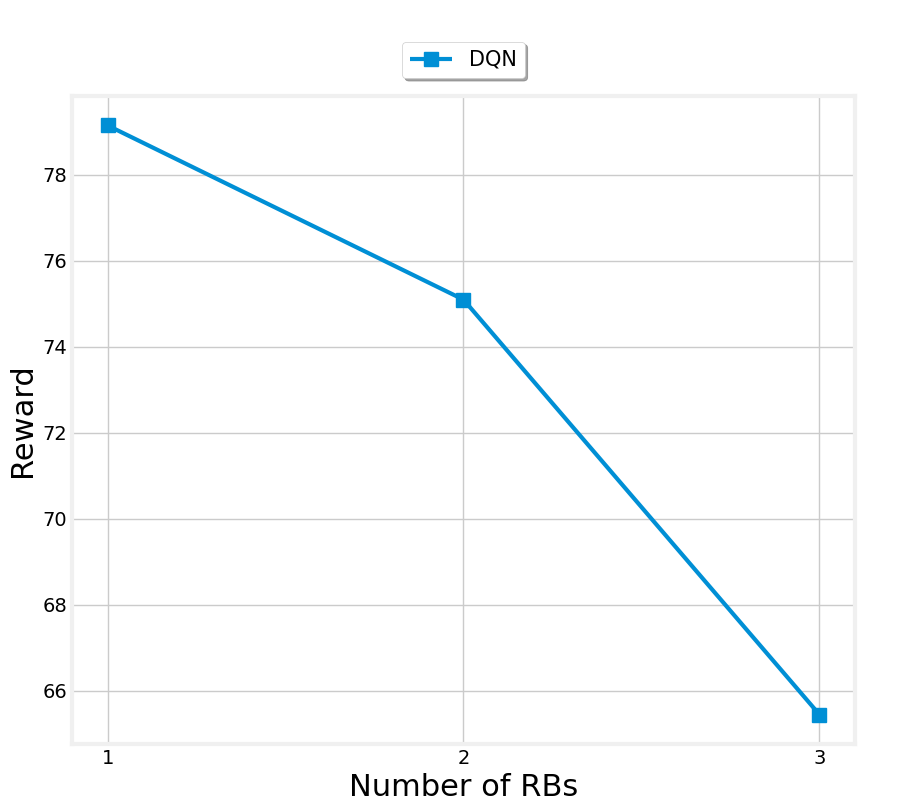
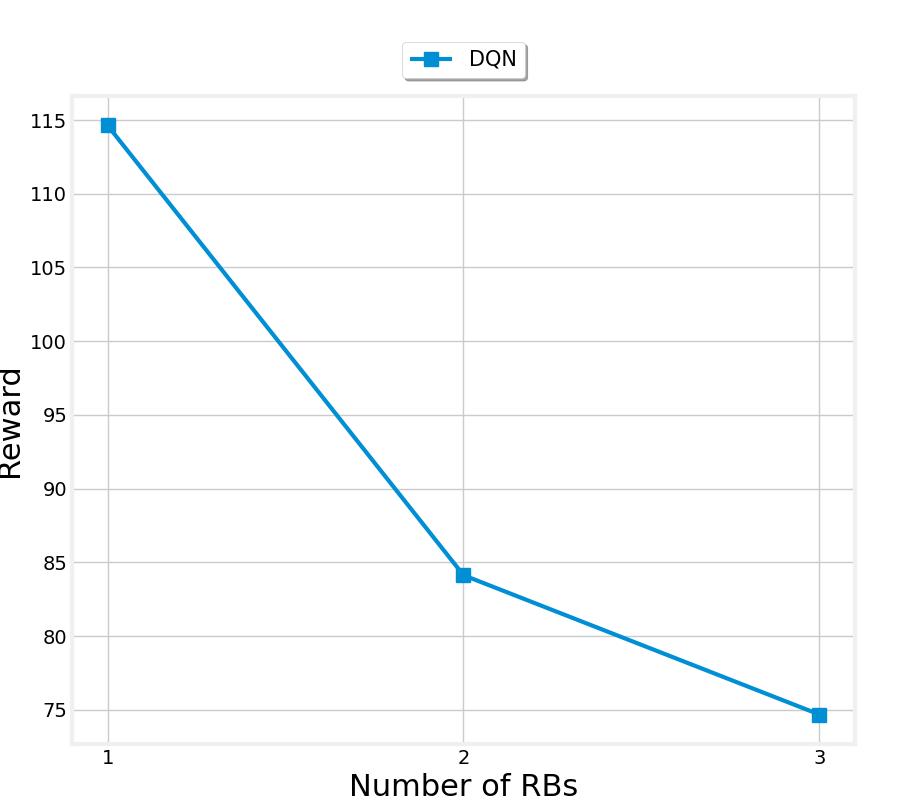
add blackborder calculation

diff --git a/vr_env.py b/vr_env.py
@@ -3,7 +3,67 @@ import math
 import random as rn
 from collections import defaultdict
 
-def step(ind, action, subN, ue, band, all_sub, v_array):
+def robust_overfilling(input_orientation, prediction, input_projection, offset = 1.1, fixed_param = 1.3):
+    #Get Input Projection Distance for each side in x,y coordinate
+    IPDx = input_projection[2]-input_projection[0]
+    IPDy = input_projection[1]-input_projection[3]
+
+    #Define projection distance to the user
+    h = 1000
+
+    #Get the corner point distance to the rotation center for each side in x,y coordinate
+    rx = np.sqrt(h**2+1/4*IPDx**2)
+    ry = np.sqrt(h**2+1/4*IPDy**2)
+
+    #Get initial input angle to the rotational center
+    input_anglex = np.arctan(IPDx/(2*h))
+    input_angley = np.arctan(IPDy/(2*h))
+
+    #Get user's direction based on prediction motion
+    pitch_diff = (prediction[0]-input_orientation[0])
+    roll_diff = (prediction[1]-input_orientation[1])
+    yaw_diff = (prediction[2]-input_orientation[2])
+
+    #Calculate predicted margin based on translation movement
+    x_r = max(input_projection[2],rx*abs(np.sin(input_anglex-yaw_diff)))
+    x_l = min(input_projection[0],-rx*abs(np.sin(input_anglex+yaw_diff)))
+    y_t = max(input_projection[1],ry*abs(np.sin(input_angley+pitch_diff)))
+    y_b = min(input_projection[3],-ry*abs(np.sin(input_angley-pitch_diff)))
+
+    #Calculate predicted margin based on rotational movement
+    x_rr = rx*abs(np.sin(input_anglex+abs(roll_diff)))
+    x_ll = -rx*abs(np.sin(input_anglex+abs(roll_diff)))
+    y_tt = ry*abs(np.sin(input_angley+abs(roll_diff)))
+    y_bb = -ry*abs(np.sin(input_angley+abs(roll_diff)))
+
+    #Calculate final movement
+    p_r = x_r+x_rr-IPDx/2
+    p_l = x_l+x_ll+IPDx/2
+    p_t = y_t+y_tt-IPDy/2
+    p_b = y_b+y_bb+IPDy/2
+
+    'Enhancement'
+    # Calculate margin based on genrated area
+    margin = np.sqrt((p_r-p_l)*(p_t-p_b)*offset)/2
+    p_l = -(margin+np.sin(yaw_diff))+(input_projection[0]+1)
+    p_t = margin+np.sin(pitch_diff)+(input_projection[1]-1)
+    p_r = margin-np.sin(yaw_diff)+(input_projection[2]-1)
+    p_b = -(margin-np.sin(pitch_diff))+(input_projection[3]+1)
+
+    'Enhancement ver 2'
+    # Get dilation on high velocity
+    p_r = max(p_r*(np.sin(abs(yaw_diff))*(fixed_param-1)+1),p_r*(np.sin(abs(pitch_diff))*(fixed_param-1)+1))
+    p_l = min(p_l*(np.sin(abs(yaw_diff))*(fixed_param-1)+1),p_l*(np.sin(abs(pitch_diff))*(fixed_param-1)+1))
+    p_t = max(p_t*(np.sin(abs(pitch_diff))*(fixed_param-1)+1),p_t*(np.sin(abs(yaw_diff))*(fixed_param-1)+1))
+    p_b = min(p_b*(np.sin(abs(pitch_diff))*(fixed_param-1)+1), p_b*(np.sin(abs(yaw_diff))*(fixed_param-1)+1))
+    # return [-np.abs(p_l),np.abs(p_t),np.abs(p_r),-np.abs(p_b)]
+
+    x = (p_l, 0, p_r, 0)
+    y = (0, p_t, 0, p_b)
+    area = 0.5*np.abs(np.dot(x,np.roll(y,1))-np.dot(y,np.roll(x,1)))
+    return area
+
+def step(ind, action, subN, ue, band, all_sub, v_array, prev_a_array, current_a_array):
     loc = ind                   # locator of the indices of the channel gains h
     sub = np.array([action])    # allocated sub-carriers
     sorter = []                 # this sorts out the MD
@@ -23,18 +83,23 @@ def step(ind, action, subN, ue, band, all_sub, v_array):
     rl = fn / cn        # initialize the local data rate
     wi = np.array([1.5 if md % 2 == 1 else 1 for md in range(n)])
 
-    v = v_array                         # velocity of user fixation (rad/s)
-    L = 1600 * 1440 	                # viewport pixels 1600x1440
-    k = 10**2                           # pixels coefficient
-    lmd = 1                             # L/r < d coefficient
-    Pl = 10 * 10**-5                    # local computing power
-    Po = 0.1 * 10**-5	                # offload computing power
-    dly = [0.01, 0.05, 0.1, 0.2, 0.3]   # range [10,50,100,200,300]ms  
+    d = 0.1
+    v = v_array                          # velocity of user fixation (rad/s)
+    L = 1600 * 1440 	                 # viewport pixels 1600x1440
+    # k = 10**2                            # pixels coefficient
+    lmd = 1                              # L/r < d coefficient
+    Pl = 10 * 10**-5                     # local computing power
+    Po = 0.1 * 10**-5	                 # offload computing power
+    k_coef = [100, 200, 300, 500, 3000]      # range [10,50,100,200,300]ms  
 
-    d = [dly[action[i]] for i in range(0,len(action)) if i%2]               # playout delay
+    k = [k_coef[action[i]] for i in range(0,len(action)) if i%2]               # playout delay
     sub = np.array([action[i] for i in range(0,len(action)) if not i%2])    # allocated sub-carriers
 
+    input_projection = [-800, 720, 800, -720]
+
     out_dict = defaultdict(list)
+
+    i = 0
 
     for s, n in zip(sub, sorter):  # outer loop to compute the system wide weighted sum data rate
         if s == 0:
@@ -42,7 +107,13 @@ def step(ind, action, subN, ue, band, all_sub, v_array):
             e = Pl * L
             ovf = 0
             d_bound = 0
+            opt_area = L
+            Li = L
+            bb = 0
         else:
+            prediction = [current_a_array[i], current_a_array[i+1], current_a_array[i+2]]
+            input_orientation = [prev_a_array[i], prev_a_array[i+1], prev_a_array[i+2]]
+            opt_area = robust_overfilling(input_orientation , prediction, input_projection)
             cur_sub = np.array(all_sub[s-1])  # we use s-1 because our sub-carrier array counts from zero
             h = cur_sub[loc, :]
             s_power = h[n] * p  # signal power computed. this is the numerator of the signal_to_noise
@@ -61,13 +132,22 @@ def step(ind, action, subN, ue, band, all_sub, v_array):
             e2 = math.log(1+signal_to_noise)
             ro = b * e2/e1
             r = wi[n]*ro
-            ovf = k * v[n]**2 * d[n]**2
-            d_bound = (L * (1 + ovf) / r) - d[n]
-            e = Po * L * (1 + ovf) + lmd * d_bound
+            ovf = k[n] * v[n]**2 * d**2
+            Li = L * (1 + ovf)
+            d_bound = (Li / r) - d
+
+            e = Po * Li + lmd * d_bound
+            bb = abs(Li - opt_area)
+        i+=1
         out_dict['x'].append(s)         
         out_dict['rate'].append(r)      # transmission rate
         out_dict['energy'].append(e)      # energy consumption
         out_dict['overfill'].append(ovf)
-        out_dict['delay'].append(d[n])
+        out_dict['k_coef'].append(k[n])
         out_dict['delay_bound'].append(d_bound)
+        out_dict['optimal_area'].append(opt_area)
+        out_dict['overfill_area'].append(Li)
+        out_dict['blackborder'].append(bb)
+        out_dict['L'].append(L)
+        out_dict['Li'].append(Li)
     return out_dict

diff --git a/vr_dqn.py b/vr_dqn.py
@@ -5,6 +5,7 @@ import time as tm
 import pandas as pd
 import tensorflow as tf
 import matplotlib.pyplot as plt
+import math
 
 from datetime import datetime
 from matplotlib.ticker import MaxNLocator
@@ -57,6 +58,7 @@ def run(t, s, ue, plot, result_dir):
     n = t  # number of time frames
     b = 1 * 10 ** 6
     SUB_NUM = s
+    PLAYOUT_DELAY = 0.1
 
     NUM_EPISODES = 100
     INITIAL_EPSILON = 0.4
@@ -66,9 +68,13 @@ def run(t, s, ue, plot, result_dir):
     TARGET_UPDATE_CYCLE = 1
     epsilon = INITIAL_EPSILON
 
+    w1 = 1
+    w2 = 10**-5
+    # w2 = 1
+
     RESULT_DIR = datetime.now().strftime("%y%m%d_%H%M")
 
-    playout_d = [0.01, 0.05, 0.1, 0.2, 0.3] 
+    k = [100, 200, 300, 500, 3000]     # overfill constant
 
     # Load data
     channel = sio.loadmat('data/ch_gain/data_%d' % 10)['input_h']
@@ -76,6 +82,9 @@ def run(t, s, ue, plot, result_dir):
 
     v_df = pd.read_csv('data/ang_vec/ang_vec_3users.csv')
     v_df = v_df.clip(-4, 4)
+
+    a_df = pd.read_csv('data/ang/ang_3users.csv')
+    a_df = a_df.clip(-2*math.pi, 2*math.pi)
 
     # print(len(channel))
     adj_channel = []        #adjust
@@ -113,7 +122,7 @@ def run(t, s, ue, plot, result_dir):
     discrete_action = True
 
     if discrete_action:
-        out_size = pow(SUB_NUM+1, nu) * pow(len(playout_d), nu)
+        out_size = pow(SUB_NUM+1, nu) * pow(len(k), nu)
 
     network = DeepQNetwork(net=[(nu,2), 120, 80, out_size], # Input layer (nu), 120 and 80 neurons of hidden layers and output layer (nu)
                     learning_rate=0.01,
@@ -124,7 +133,7 @@ def run(t, s, ue, plot, result_dir):
                     enable_DDQN = False
                     )
 
-    action_space = [SUB_NUM if i%2 else len(playout_d)-1 for i in range(1,2*nu+1)]
+    action_space = [SUB_NUM if i%2 else len(k)-1 for i in range(1,2*nu+1)]
     # print(action_space)
     possible_actions = [list(range(0, (k + 1))) for k in action_space]
 
@@ -139,7 +148,7 @@ def run(t, s, ue, plot, result_dir):
 
     time_duration = []
 
-    # v_array = [rn.uniform(10**-4, 1) for i in range(0,nu)]   # randomize head velocity for initial testing
+    delay_idx = int(PLAYOUT_DELAY/0.01)
 
     for episode in range(NUM_EPISODES):
         episode_reward = 0
@@ -155,14 +164,17 @@ def run(t, s, ue, plot, result_dir):
             i_idx = (i + (episode * n)) % split_idx
 
             v_array = list(v_df.iloc[i])
-            # print(v_array)
 
-            # v_array = [rn.uniform(10**-4, 1) for i in range(0,nu)]
+            if i >= delay_idx:
+                prev_a_array = list(a_df.iloc[i-delay_idx])
+            else:
+                prev_a_array = list(a_df.iloc[0])
+
+            current_a_array = list(a_df.iloc[i])
             
             state = (all_sub[0][i_idx,:], v_array)                             # state = channel gain + head velocity
 
             state = tf.expand_dims(state,0)
-            # print(state)
 
             if np.random.uniform() < epsilon:
                 # print('EPSILON')
@@ -172,14 +184,13 @@ def run(t, s, ue, plot, result_dir):
                 tmp = network.evaluation_network(state)
                 # print(tmp)
                 action = tf.argmax(tmp[0])
-            # print(action)
+
             action_q = action_map[action]
-            # print(action_q)
-            env_dict = step(i_idx, action_q, SUB_NUM, ue, b, all_subs, v_array)
-            # print(env_dict['overfill'])
-            reward = -sum(env_dict['energy'])
-            # print(reward)
-            # print(i)
+            env_dict = step(i_idx, action_q, SUB_NUM, ue, b, all_subs, v_array, prev_a_array, current_a_array)
+            # print('energy : %s' % sum(env_dict['energy']))
+            # print('bb : %s' % (w2 * sum(env_dict['blackborder'])))
+            reward = -w1 * sum(env_dict['energy']) - w2 * sum(env_dict['blackborder'])
+
             v_array = list(v_df.iloc[i+1])
             next_state = (all_sub[0][i_idx+1,:], v_array)
             next_state = tf.expand_dims(next_state,0)
@@ -229,14 +240,14 @@ def run(t, s, ue, plot, result_dir):
             # plt.show()
             plt.close(fig)
 
-        for i in range(0, len(result_dict['delay'][0])):
+        for i in range(0, len(result_dict['k_coef'][0])):
             fig, ax = plt.subplots()
             ax.grid(True)
-            plt.scatter([j for j in range(0,len(result_dict['delay']))], np.array(result_dict['delay'])[:,i], color='C%s'%i)
-            plt.title('Playout Delay User %s' %str(i+1))
+            plt.scatter([j for j in range(0,len(result_dict['k_coef']))], np.array(result_dict['k_coef'])[:,i], color='C%s'%i)
+            plt.title('K Coefficient User %s' %str(i+1))
             plt.xlabel('Timestep')
-            plt.ylabel('Delay (second)')
-            plt.savefig(result_dir + 'playout_delay_rb%s_user%s.png' %(SUB_NUM, str(i+1)))
+            plt.ylabel('K Coef')
+            plt.savefig(result_dir + 'k_coef_rb%s_user%s.png' %(SUB_NUM, str(i+1)))
             # plt.show()
             plt.close(fig)
 
@@ -262,15 +273,29 @@ def run(t, s, ue, plot, result_dir):
             # plt.show()
             plt.close(fig)
 
+        for i in range(0, len(result_dict['L'][0])):
+            fig, ax = plt.subplots()
+            ax.grid(True)
+            plt.plot(ma(np.array(result_dict['L'])[:,i], n), color='b', label='Original')
+            plt.plot(ma(np.array(result_dict['Li'])[:,i], n), color='C%s'%i, label='Algorithm')
+            plt.plot(ma(np.array(result_dict['optimal_area'])[:,i], n), color='r', label='Calculated')
+            plt.title('Overfill Area User %s' %str(i+1))
+            plt.xlabel('Timestep')
+            plt.ylabel('Area (Pixels)')
+            plt.legend(loc='upper right')
+            plt.savefig(result_dir + 'area_rb%s_user%s.png' %(SUB_NUM, str(i+1)))
+            # plt.show()
+            plt.close(fig)
+
         fig, ax = plt.subplots()
         plt.plot(rwd_df['mean'], c='C0')
         plt.fill_between([i for i in range(0,len(rwd_df))], rwd_df['std_high'], rwd_df['std_low'], alpha=0.2)
-        plt.title('VR Energy Consumption UEs=%s RBs=%s' % (nu, SUB_NUM))
+        plt.title('System Reward UEs=%s RBs=%s' % (nu, SUB_NUM))
         plt.xlabel('Episode')
         plt.ylabel('Reward')
-        plt.savefig(result_dir + 'energy_consumption_ue%s_rb%s.png' %(nu, SUB_NUM))
+        plt.savefig(result_dir + 'reward_ue%s_rb%s.png' %(nu, SUB_NUM))
         # plt.show()
         plt.close(fig)
     return avg_e, avg_ue_e
 
-print(run(300, 1, 3, True, 'result/test/'))
+# print(run(300, 3, 3, True, 'result/test/'))

diff --git a/data/vecvsbb.py b/data/vecvsbb.py
@@ -2,6 +2,7 @@ import matplotlib.pyplot as plt
 import pandas as pd
 import numpy as np
 import numpy.polynomial.polynomial as poly
+import math
 
 vec_df = pd.read_csv('ang_vec/ang_vec_3users.csv')
 bb_df1 = pd.read_csv('video3user1_notpredict_blackborder.csv', header=None)
@@ -28,7 +29,7 @@ for i in range(0,3):
     user = 'user%s'%str(i+1)
 
     y = bb_df.iloc[i][:299]
-    x = vec_df[user].abs()
+    x = vec_df[user].abs() * 180/math.pi
 
     lin = poly.polyfit(x, y, 1)
     quad = poly.polyfit(x, y, 2)
@@ -43,8 +44,8 @@ for i in range(0,3):
     x = np.arange(x2,step=0.1)
     plt.plot(x, lin_f(x), color='r', label='Linear regression')
     plt.plot(x, quad_f(x), color='b', label='Quadratic regression')
-    if i!=2:
-        plt.axis((0,2,y1,y2))
+    # if i!=2:
+    #     plt.axis((0,2,y1,y2))
     plt.title('Blackborder vs Angular Velocity User %s' %str(i+1))
     plt.ylabel('Blackborder Pct (%)')
     plt.xlabel('Angular Velocity (rad/s)')

diff --git a/plot_all.py b/plot_all.py
@@ -4,7 +4,7 @@ import numpy as np
 import pandas as pd
 import matplotlib as mpl
 
-log_path = os.getcwd() + "/result/211110_1701/"
+log_path = os.getcwd() + "/result/211117_2235/"
 
 # local = pd.read_csv(log_path + "MovingAverageReward_lc_energy.csv")
 
